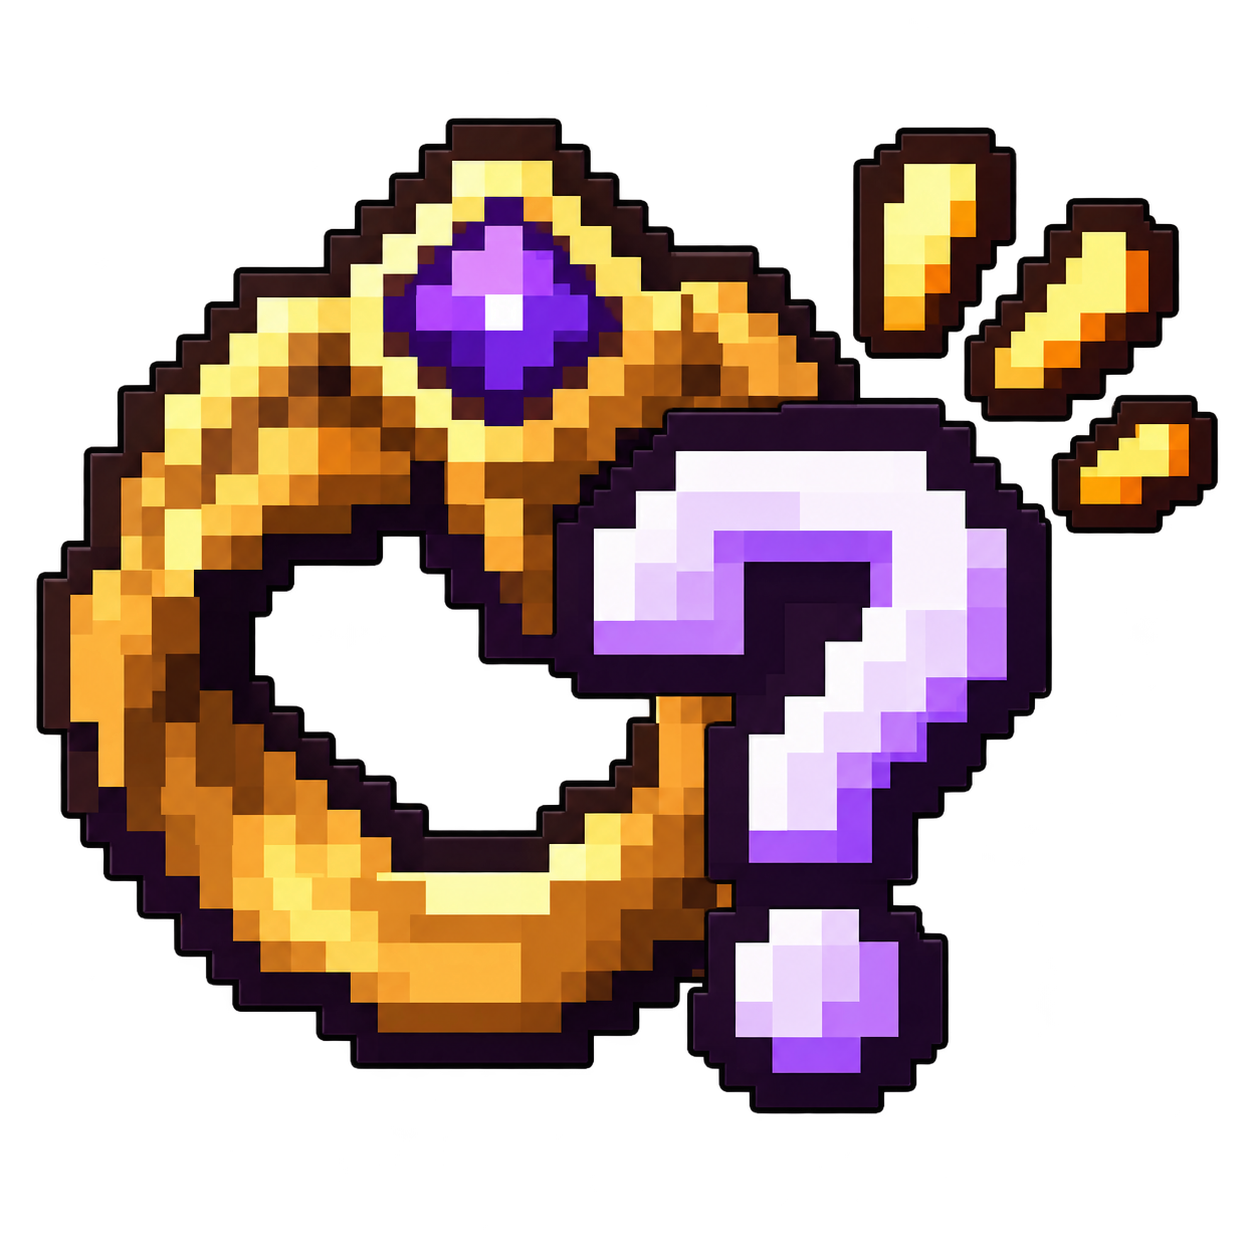
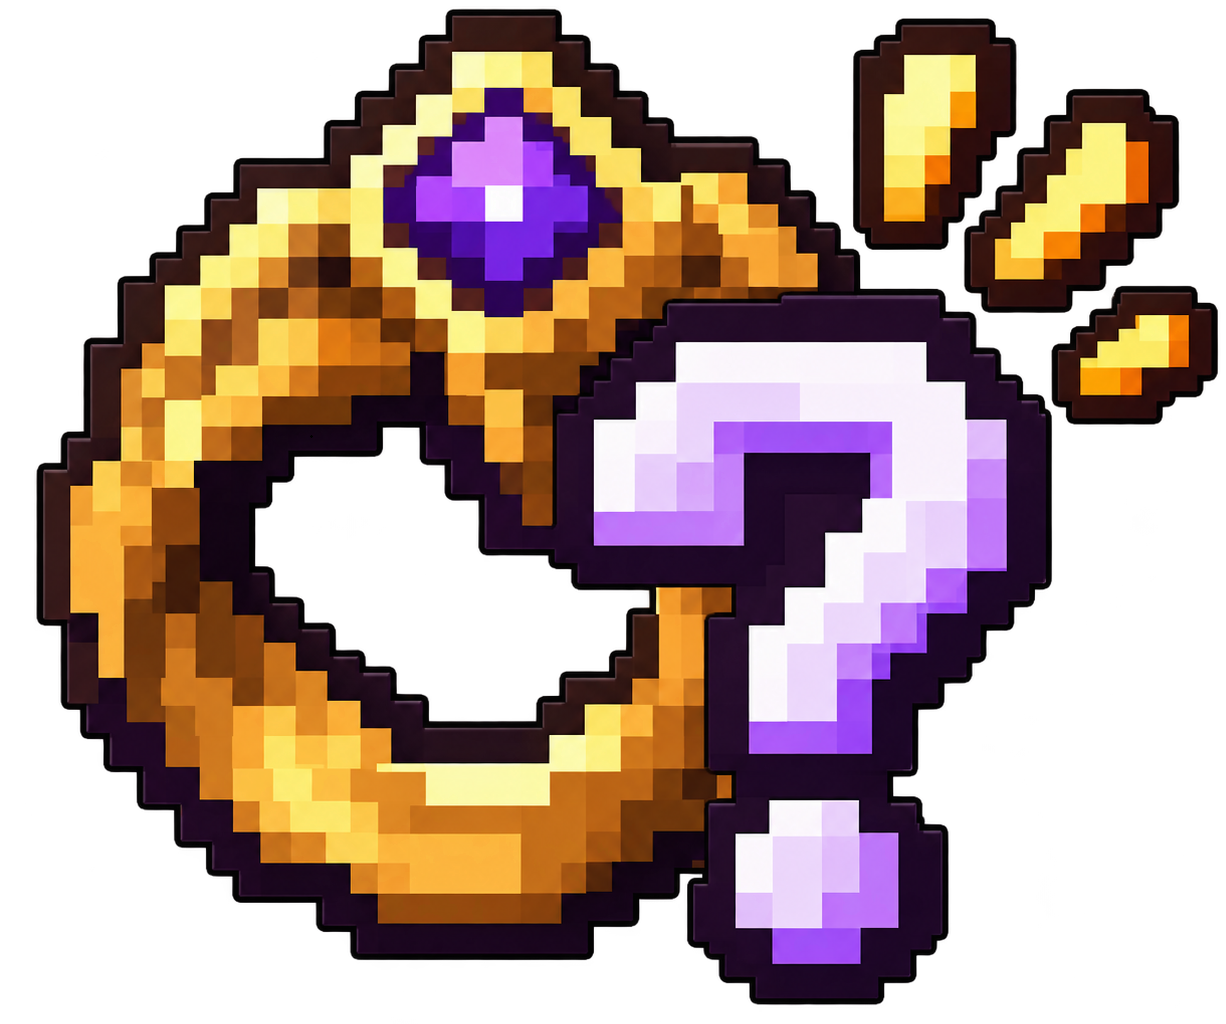
Release Curios Slot Filter 1.1.1

diff --git a/src/main/java/com/yume/curiosslotfinder/CuriosSlotFinder.java b/src/main/java/com/yume/curiosslotfinder/CuriosSlotFinder.java
@@ -16,7 +16,7 @@ public final class CuriosSlotFinder {
     public static final Logger LOGGER = LogUtils.getLogger();
 
     public CuriosSlotFinder(FMLJavaModLoadingContext context) {
-        LOGGER.info("Curios Slot Finder initialized");
+        LOGGER.info("Curios Slot Filter initialized");
         IEventBus modBus = context.getModEventBus();
         modBus.addListener(ClientEvents::registerKeyMappings);
         modBus.addListener(ClientEvents::registerReloadListeners);

diff --git a/src/main/java/com/yume/curiosslotfinder/config/ModConfig.java b/src/main/java/com/yume/curiosslotfinder/config/ModConfig.java
@@ -23,7 +23,7 @@ public final class ModConfig {
                 .comment("Restore the previous JEI filter when the Curios screen closes.")
                 .define("clearOnClose", true);
         SHOW_RESULTS = builder
-                .comment("Show the Curios Slot Finder status and validator result panel.")
+                .comment("Show the Curios Slot Filter status and validator result panel.")
                 .define("showResults", true);
         builder.pop();
 

diff --git a/src/main/java/com/yume/curiosslotfinder/jei/JeiIntegration.java b/src/main/java/com/yume/curiosslotfinder/jei/JeiIntegration.java
@@ -46,7 +46,7 @@ public final class JeiIntegration implements IModPlugin {
     @Override
     public void onRuntimeAvailable(IJeiRuntime jeiRuntime) {
         runtime = jeiRuntime;
-        CuriosSlotFinder.LOGGER.info("Curios Slot Finder connected to JEI");
+        CuriosSlotFinder.LOGGER.info("Curios Slot Filter connected to JEI");
     }
 
     @Override

diff --git a/docs/TROUBLESHOOTING.md b/docs/TROUBLESHOOTING.md
@@ -1,14 +1,14 @@
 # 故障排查
 
-## 模组列表中没有 Curios Slot Finder
+## 模组列表中没有 Curios Slot Filter
 
 1. 确认 JAR 位于具体版本目录的 `mods` 文件夹。
 2. 确认游戏版本是 Minecraft 1.20.1、Forge 47.x。
 3. 检查 `logs/latest.log` 中是否存在依赖错误。
 4. 确认 Curios 至少为 5.9.0，JEI 至少为 15.59.0。
 
-当前发行 JAR 的显示名称仍为 `Curios Slot Finder`，技术 Mod ID 为
-`curios_slot_finder`；项目在 GitHub 上使用的新名称为 `Curios Slot Filter`。
+当前发行 JAR 的显示名称为 `Curios Slot Filter`，中文名称为“饰品筛选”，
+技术 Mod ID 仍保持为 `curios_slot_finder`。
 
 ## 游戏启动时报 `javafml:47 or above`
 
@@ -25,7 +25,7 @@
 ## JEI 搜索没有变化
 
 - 确认 JEI 已成功加载。
-- 检查日志中的 `Curios Slot Finder connected to JEI`。
+- 检查日志中的 `Curios Slot Filter connected to JEI`。
 - 如果 JEI 注册失败，模组不会覆盖当前搜索内容。
 
 ## `#ring` 显示石头等非饰品

diff --git a/CHANGELOG.md b/CHANGELOG.md
@@ -1,5 +1,14 @@
 # Changelog
 
+## 1.1.1
+
+- Renamed the user-facing project and mod display name to `Curios Slot Filter`
+  (`饰品筛选`).
+- Changed the distributable JAR name to `curios_slot_filter-1.1.1.jar`.
+- Updated the project icon.
+- Kept the technical mod ID `curios_slot_finder` unchanged for save and
+  dependency compatibility.
+
 ## 1.1.0
 
 - Added compatibility with JEI 15.59.

diff --git a/README.md b/README.md
@@ -112,8 +112,8 @@ config/curios_slot_finder-client.toml
 正常启动时，`logs/latest.log` 应包含：
 
 ```text
-Curios Slot Finder initialized
-Curios Slot Finder connected to JEI
+Curios Slot Filter initialized
+Curios Slot Filter connected to JEI
 Registered the 'curio' JEI alias for N Curios items
 ```
 
